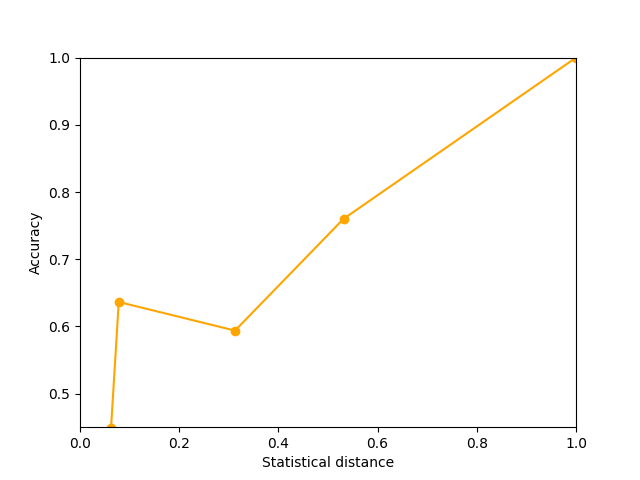
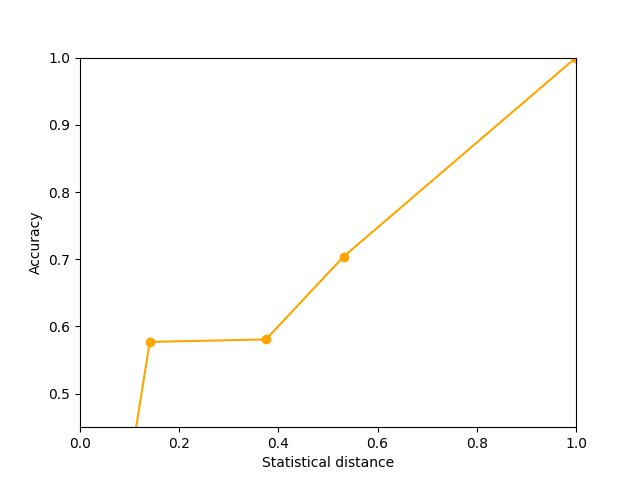
Working accuracy metrics

diff --git a/analysis.py b/analysis.py
@@ -44,7 +44,6 @@ for gamma in gammas:
     Fairs.append(Fair)
 
 # Parameters
-params = {"batch_size": 64, "shuffle": True}
 
 # Generators
 # data_set_test = TensorDataset(data_test, context_test)
@@ -73,6 +72,12 @@ data_1_test = data_test[context_test.flatten() == 1]
 labels_1_test = labels_test[context_test.flatten() == 1]
 context_1_test = context_test[context_test.flatten() == 1]
 
+# Losing some data here, but want batches to have same length
+params = {
+    "batch_size": min(data_1_test.shape[0], data_0_test.shape[0]),
+    "shuffle": True,
+}
+
 label_0_set_test = TensorDataset(data_0_test, labels_0_test, context_0_test)
 label_0_generator_test = torch.utils.data.DataLoader(label_0_set_test, **params)
 
@@ -98,26 +103,50 @@ for fair in Fairs:
 
 # Calculate the accuracy of label predictions
 
-accs = []
+add_accs = []
 for fair in Fairs:
     with torch.no_grad():
         # idx = (data_file["context"] == 0).flatten()
         embedding_0, embedding_1 = fair._embed(data_0_test, data_1_test)
 
-    acc_test = EmpiricalStatisticalDistance(
+    # I don't think this is the fair classifier
+    # Adversarial accuracy
+    add_acc = EmpiricalStatisticalDistance(
         embedding_0,
         embedding_1,
-        hidden_dim=64,
-        n_layers=5,
-        n_epochs=200,
+        hidden_dim=32,
+        n_layers=3,
+        n_epochs=300,
         report_accuracy=True,
     )
-    accs.append(acc_test)
+    add_accs.append(add_acc)
 
 # plot result (can move to analysis script later)
-plt.plot(stat_dists, accs, "-o", color="orange")
+plt.plot(stat_dists, add_accs, "-o", color="orange")
 plt.xlim(0, 1)
-plt.ylim(0.45, 1)
+plt.ylim(0.4, 1)
 plt.xlabel("Statistical distance")
-plt.ylabel("Accuracy")
-plt.savefig("Figures/fair_accuracy_vs_stat_dist_val01.png")
+plt.ylabel("Adversarial Accuracy")
+plt.savefig("Figures/add_accuracy_vs_stat_dist.png")
+plt.close()
+
+bin_accs = []
+for fair in Fairs:
+    with torch.no_grad():
+        # idx = (data_file["context"] == 0).flatten()
+        embedding_0, embedding_1 = fair._embed(data_0_test, data_1_test)
+
+        embedding = torch.cat((embedding_0, embedding_1))
+        labels = torch.cat((labels_0_test, labels_1_test))
+    # I don't think this is the fair classifier
+    # Adversarial accuracy
+    bin_acc = fair.classifier_accuracy(embedding, labels)
+    bin_accs.append(bin_acc)
+
+# plot result (can move to analysis script later)
+plt.plot(stat_dists, bin_accs, "-o", color="orange")
+plt.xlim(0, 1)
+plt.ylim(0.4, 1)
+plt.xlabel("Statistical distance")
+plt.ylabel("Binary Classifier Accuracy")
+plt.savefig("Figures/bin_accuracy_vs_stat_dist.png")

diff --git a/models/fair.py b/models/fair.py
@@ -2,6 +2,7 @@ import torch
 import torch.nn as nn
 from .flow import Flow
 from .classifier import BinaryClassifier
+from sklearn.metrics import accuracy_score
 
 
 class BinaryFair(nn.Module):
@@ -58,6 +59,11 @@ class BinaryFair(nn.Module):
         label_pred = self.classifier(embeddings).sigmoid()
 
         return label_pred
+
+    def classifier_accuracy(self, embd, labels):
+        label_pred = self.classifier(embd).sigmoid()
+        bin_pred = (label_pred > 0.5).float()
+        return accuracy_score(bin_pred, labels)
 
     def sample(self, context=None):
         samples_0 = self.flow0.sample(num_samples=context.shape[0])

diff --git a/utils/StatisticalDistance.py b/utils/StatisticalDistance.py
@@ -24,6 +24,7 @@ def EmpiricalStatisticalDistance(
     )
 
     data = torch.vstack([samples_0, samples_1])
+    # this is really context, not labels
     labels = torch.vstack(
         [torch.zeros(samples_0.shape[0], 1), torch.ones(samples_1.shape[0], 1)]
     )
